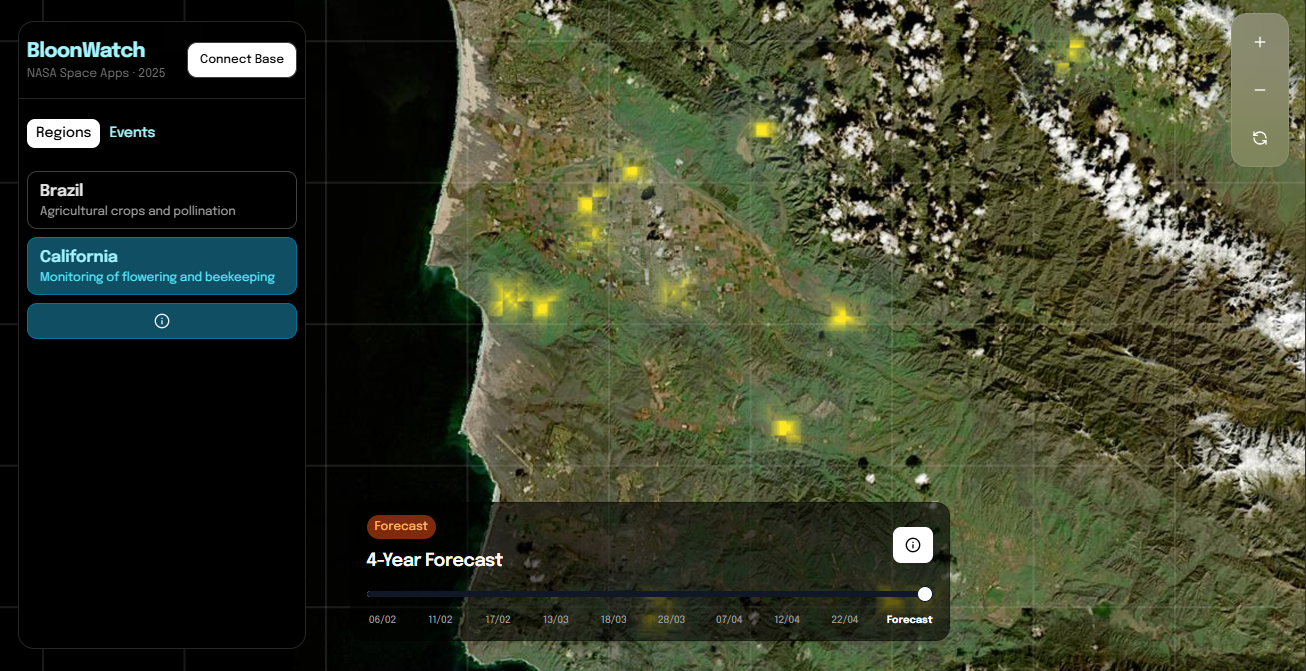
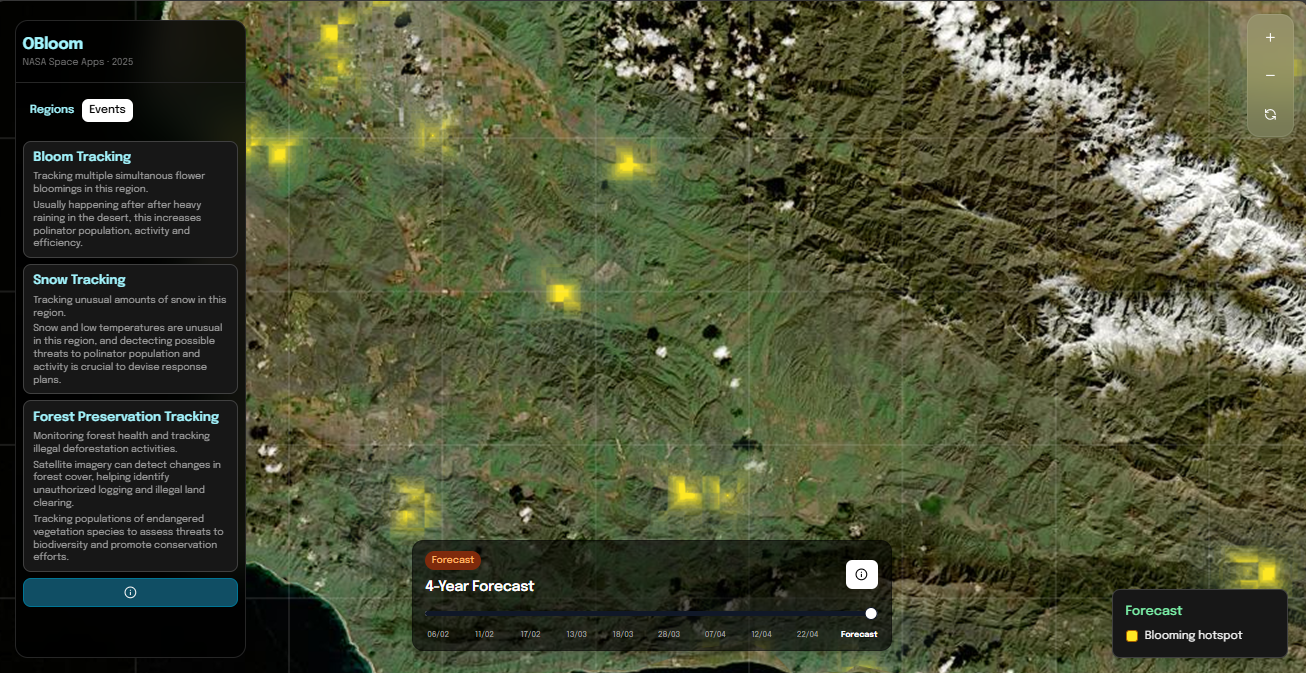
fix: README

diff --git a/README.md b/README.md
@@ -1,7 +1,26 @@
 # OBloom
-Bloomwatch is a project for monitoring and visualizing environmental data, focusing on the detection of algal blooms in water bodies.
 
-The prediction workflow involves several key steps. First, multispectral indices are calculated using satellite bands (Bands 02-06, B10, and B11). Next, features are extracted, including neighborhood and delta values, as well as contextual information like season and day of the year. These features are then used to train a RandomForestRegressor model, which predicts both the timing of the next bloom occurrence and generates a flower index map for that event. This approach enables accurate forecasting and visualization of algal bloom dynamics.
+OBloom is a project for monitoring and visualizing environmental data, focusing on the detection of blooms.
+
+The bloom prediction workflow consists of the following steps:
+1. Multispectral Index Calculation 
+   Various spectral indices are computed using satellite bands (Bands 02–06, B10, and B11), including:  
+  - NDYI (Normalized Difference Yellowness Index)
+  - SWIR1 (Short-Wave Infrared)
+  - ND_NIR_SWIR (Normalized Difference Near-Infrared and Shortwave Infrared)
+  - NDVI (Normalized Difference Vegetation Index)
+  - FII (Flower Intensity Index)
+2. Feature Extraction
+   From the calculated indices, multiple features are derived, such as:
+  - Neighborhood values
+  - Delta (change) values
+  - Contextual data, including the season and day of the year
+3. Model Training and Prediction
+   A Random Forest Regressor model is trained using these features. The model predicts:
+  - The timing of the next bloom occurrence
+  - A flower intensity map for the predicted event
+4. Forecasting and Visualization
+   This methodology enables accurate forecasting and effective visualization of bloom dynamics over time.
 
 ## Test URL
 
@@ -25,6 +44,21 @@ Access the proof of concept (POC) at the link below:
     npm run dev
     ```
 
+## Running the Polyglot Notebook in VS Code
+
+To run the Polyglot notebook included in this project, follow these steps:
+
+1. Install the [Polyglot Notebooks extension](https://marketplace.visualstudio.com/items?itemName=ms-dotnettools.dotnet-interactive-vscode) in Visual Studio Code.
+2. Open VS Code and navigate to the notebook file:
+    ```
+    ./scripts/Satellite Feature Extraction & Forecasting Pipeline.ipynb
+    ```
+3. Click the file to open it. VS Code will automatically recognize the notebook and display execution options.
+4. Select the appropriate kernel for each cell if needed.
+5. Run the notebook cells by clicking the "play" button next to each cell or by using the `Run All` command.
+
+This allows you to explore and execute the feature extraction and forecasting pipeline directly within VS Code.
+
 ## Technologies used
 
 - JupterNotebooks
@@ -34,8 +68,8 @@ Access the proof of concept (POC) at the link below:
 
 Here is the screen that allows you to view the monitored regions and analyze, through the timeline, the bloom events that occurred during the selected period.
 
-![Region Select](docs/assets/event-select.png)
+![Region Select](docs/assets/region-select.png)
 
 Below is an image illustrating how users can select specific events to analyze within the chosen region. This feature enables focused investigation of particular occurrences and helps users correlate different events for deeper insights.
 
-![Event Select](docs/assets/region-select.png)
+![Event Select](docs/assets/event-select.png)